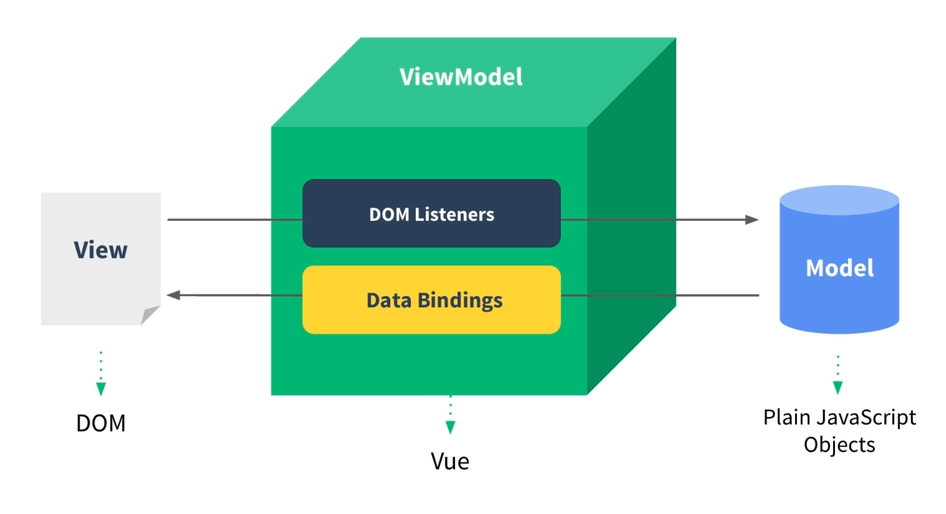
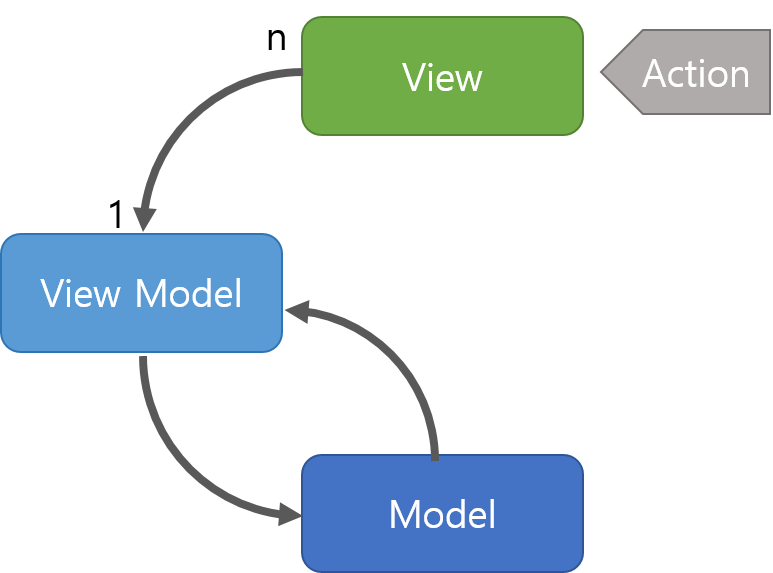
TIL - MVC, MVVM 내용 수정

diff --git a/Interview Prep/FE 기술 면접 (Project).md b/Interview Prep/FE 기술 면접 (Project).md
@@ -94,7 +94,7 @@
     - `data`를 조작하면 무한 루프를 발생시킬 수 있다.
 7. `beforeDestroy`
     - Vue 인스턴스가 해체되기 직전의 상태이다.
-    - 이벤트 리스터를 해제하기 좋은 위치이다.
+    - 이벤트 핸드러를 해제하기 좋은 위치이다.
 8. `destroyed`
     - Vue 인스턴스가 해체되었다.
     - `data`, `methods` 등에 접근할 수 없다.
@@ -103,22 +103,43 @@
 
 ### 6. MVC, MVVM 패턴이란?
 
-MVVM 패턴은 어플리케이션 로직과 사용자 인터페이스(UI)를 분리하기 위한 패턴이다.
+#### MVC 패턴
 
-Vue.js와 같은 SPA 프레임워크는 MVVM 패턴을 따르며, `Model`, `View`, `ViewModel`로 구성된다.
+MVC 패턴은 `Model`, `View`, `Controller` 세 가지 요소로 구성된다.
 
-<center>
-    <img src="./MVVM.png" width="550px" />
-</center>
+<img src="./MVC.png" width="300px" />
 
-- Model
-    - 순수 자바스크립트 객체를 의미한다.
-- View
-    - 웹 페이지의 DOM 구조를 의미한다.
-- View Model
+- `Model`은 데이터베이스이다.
+- `View`는 사용자 인터페이스이다.
+- `Controller`는 `Model`과 `View`를 연결하는 다리 역할을 한다.
+    - 사용자는 `Controller`를 이용해 `Model`의 데이터를 변경할 수 있다.
+    - 변경된 데이터는 `Controller`에 의해 `View`에 반영된다.
+
+- MVC 패턴은 각각의 역할을 분리해 구현할 수 있도록 한다.
+    - 맡은 바에 집중할 수 있다.
+    - 유지보수성, 확장성, 유연성이 개선된다.
+
+<br>
+
+#### MVVM 패턴
+
+MVVM 패턴은 **비즈니스 로직과 프레젠테이션 로직을 UI로부터 분리**한다.
+
+> 비즈니스 로직은 실세계의 규칙에 따라 데이터를 생성/저장하는 부분이다.
+
+> 프레젠테이션 로직은 어떤 화면을 제공할 것인지 결정하는 부분이다.
+
+<img src="./MVVM.png" width="300px" />
+
+MVVM 패턴은 `Model`, `View`, `ViewModel` 세 가지 요소로 구성된다.
+
+- `Model`은 데이터와 데이터를 조작하는 영역이다.
+- `View`는 사용자에게 보여지는 인터페이스 영역이다.
+- `View Model`은 `View`만을 위한 `Model`이다.
     - **Vue.js가 담당하고 있는 역할**이다.
-    - DOM이 변경되면, `DOM Listener`를 통해 Model에 신호를 전달한다.
-    - 모델이 변경되면, `데이터 바인딩`을 통해 View에 변경사항이 반영된다.
+    - 여러 `Model`에 접근하여, `View`에서 사용할 데이터를 가공한다.
+    - 사용자의 명령은 `ViewModel`에 의해 `View`에서 `Model`으로 전달된다.
+    - `View`와 `ViewModel`은 **데이터 바인딩**을 통해 동기화된다.
 
 <br>
 
